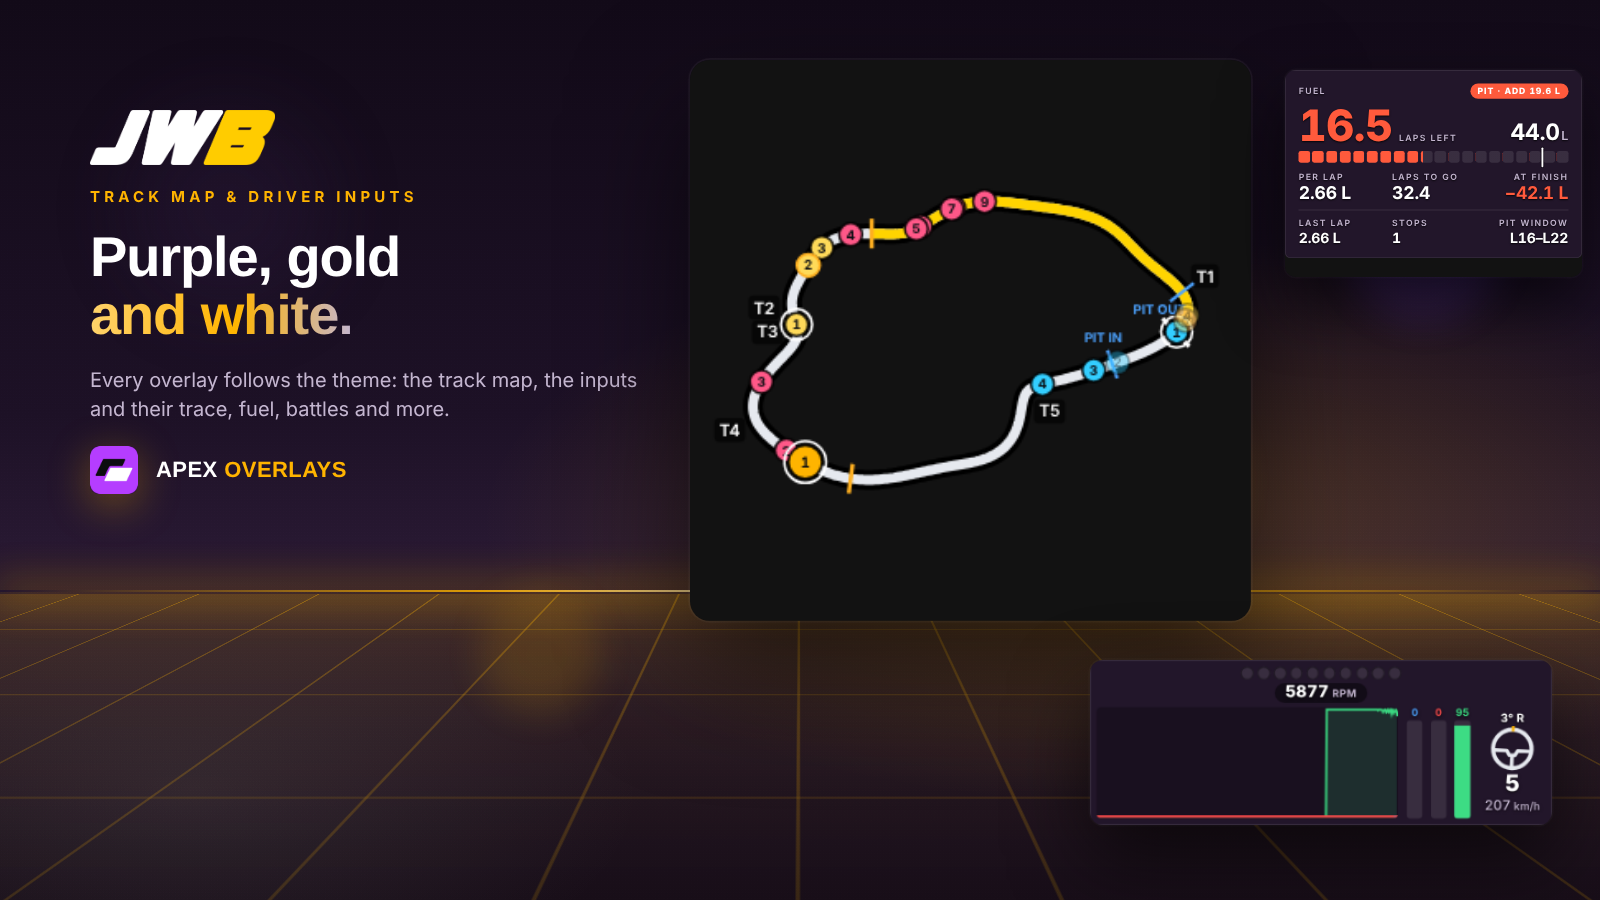
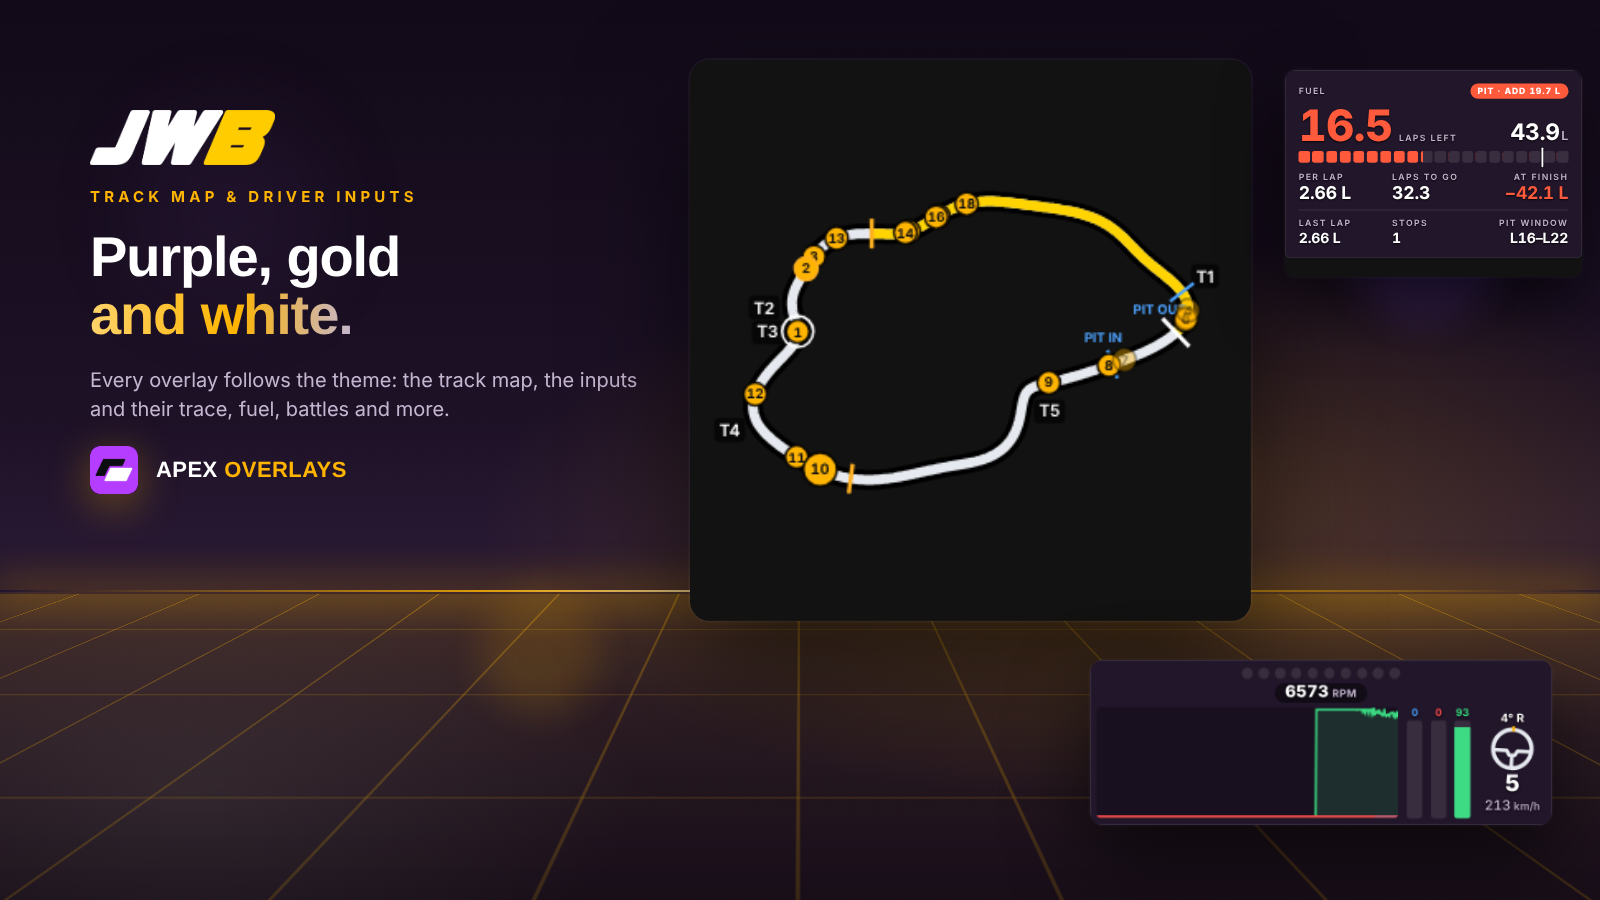
JWB sample images as a TCR league, and "teams and leagues"
JWB is a racing league focused on TCR, not a team: its images now show a
league round (one TCR class, live league points and championship totals)
with league wording. The Sponsored by Us note on the Theme page says
"teams and leagues".

Claude-Session: https://claude.ai/code/session_01GPu2QpiT75Md8f63JrvxZg

diff --git a/ui/src/lib/theme.ts b/ui/src/lib/theme.ts
@@ -156,7 +156,7 @@ export function overlayFont(t: Values): { family: string; stretch: string } {
   return { family: (t.fontFamily as string) || STANDARD_FONT, stretch: 'normal' };
 }
 
-/** A built-in theme. `sponsored`: a team we sponsor (listed under "Sponsored by Us"), with its
+/** A built-in theme. `sponsored`: a team or league we sponsor (listed under "Sponsored by Us"), with its
  *  logo (an image in /assets/teams) as the card's picture. */
 type Preset = { name: string; values: Values; sponsored?: boolean; logo?: string };
 

diff --git a/ui/src/control/pages.ts b/ui/src/control/pages.ts
@@ -774,7 +774,7 @@ const themePage: Page = {
         h('h3', '', 'Presets'),
         presets,
         h('h3', '', 'Sponsored by Us'),
-        h('p', 'dim small', 'The colours of the teams Apex Overlays sponsors.'),
+        h('p', 'dim small', 'The colours of the teams and leagues Apex Overlays sponsors.'),
         sponsored,
         h('h3', '', 'My themes'),
         saved,

diff --git a/docs/promo/README.md b/docs/promo/README.md
@@ -32,5 +32,7 @@ team colour on the timing overlays (League builder → Team builder, Number colo
 
 The same five images for the VCR (Virtual Circuit Racing), Gassed Up Motorsports and JWB themes
 (Settings → Theme → Sponsored by Us), with the team's logo, and three GT3 cars of the mock race
-(#114, #118, #111) in the team colour: `vcr/vcr-*.png`, `gassed-up/gassed-up-motorsports-*.png` and `jwb/jwb-*.png`
+(#114, #118, #111) in the team colour: `vcr/vcr-*.png`, `gassed-up/gassed-up-motorsports-*.png` and `jwb/jwb-*.png`.
+JWB is a racing league (TCR) rather than a team, so its images show a league round instead: every car in
+one TCR class, with live league points and the championship totals on the relative and standings
 (hero 1920×1080; timing, track map and theme 1600×900; social 1080×1080).

diff --git a/CHANGELOG.md b/CHANGELOG.md
@@ -4,6 +4,11 @@ The section for each version is shown in the in-app update pop-up and on the Git
 Each version groups its changes under `### New features`, `### Improvements` and `### Fixes`
 (plus `### Performance` or `### Removed` when needed).
 
+## Unreleased
+
+### Improvements
+- Settings → Theme → Sponsored by Us: “the teams and leagues Apex Overlays sponsors” (JWB is a league)
+
 ## 1.1.2
 
 ### Improvements
